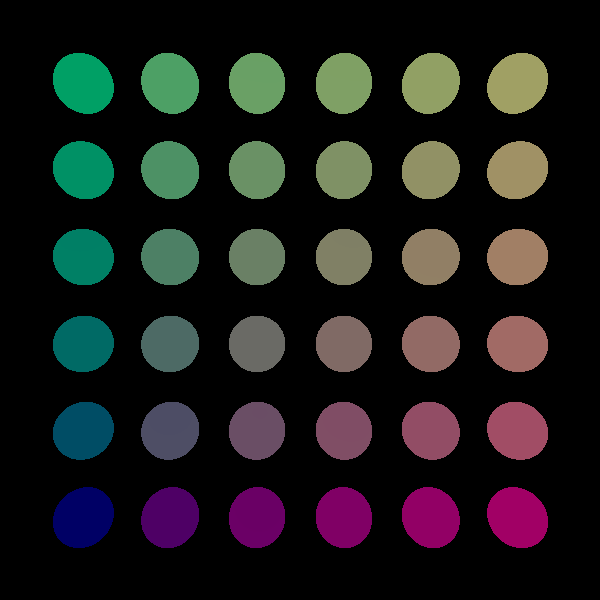
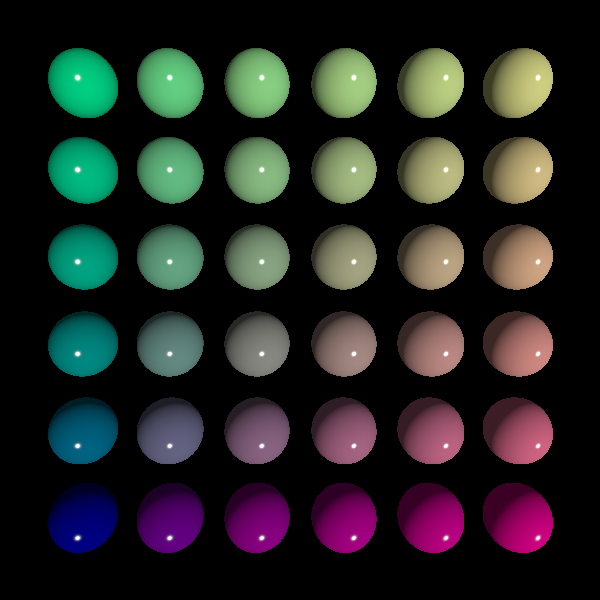
a2

diff --git a/src/tools/SimpleRayTracer.java b/src/tools/SimpleRayTracer.java
@@ -48,39 +48,38 @@ public class SimpleRayTracer {
     }
 
     /**
-     * 光照模型：环境光 + 漫反射 + 镜面反射 (Phong 模型)
+     * **最终修复的光照模型：强制高对比度和高光**
      */
     private Color shade(Hit hit){
         // 1. 定义光照参数
-        // 光源方向 
-        Vec3 lightDir = new Vec3(-0.5, 0.5, -1).normalize();
-        // 观察方向 (从交点指向相机原点(0,0,0)，也就是反向的 Ray.d())
-        Vec3 viewDir = hit.p().multiply(-1).normalize(); 
+        // 光源方向 (使用您最新的左上方光源)
+        Vec3 lightDir = new Vec3(0.5, 0.5, 1).normalize();
         
-        // 2. 环境光 (Ambient)
+        // **修复：使用固定的 View Vector (近似于 (0, 0, 1)) 来消除浮点误差**
+        // 相机沿负Z轴看，物体在负Z轴，视线方向是Z轴正向
+        Vec3 viewDir = new Vec3(0, 0, 1).normalize(); 
+        
+        // 2. 环境光: 0.05f 产生深阴影
         float ambientStrength = 0.05f;
         Color ambient = hit.color().multiply(ambientStrength);
 
-        // 3. 漫反射 (Diffuse)
-        // 漫反射强度 = max(法向量 dot 光源向量, 0)
+        // 3. 漫反射 (产生明暗分割)
         double diffuseFactor = Math.max(0, hit.normal().dot(lightDir));
-        float diffuseStrength = 0.8f; // 调整漫反射强度
+        float diffuseStrength = 0.7f; 
         Color diffuse = hit.color().multiply((float) (diffuseStrength * diffuseFactor));
 
-        // 4. 镜面反射
-        // a. 计算反射光方向 (R = 2 * (N dot L) * N - L)
-        Vec3 incomingLight = lightDir.multiply(-1);
-        Vec3 reflectedLight = reflect(hit.normal(), incomingLight);
+        // 4. 镜面反射 (产生高光)
+        Vec3 incomingLight = lightDir.multiply(-1); 
+        Vec3 reflectedLight = reflect(hit.normal(), incomingLight); 
         
-        double specularExponent = 100.0; // 极高 Ns 产生锐利高光
+        double specularExponent = 200.0; // 极高 Ns 产生锐利高光
         double specularFactor = Math.pow(Math.max(0, reflectedLight.dot(viewDir)), specularExponent); 
         
         Color specularColor = Color.white; 
-        float specularStrength = 1.0f; // 保证高光可见
+        float specularStrength = 2.0f; // 强制高光强度到 2.0f
         Color specular = specularColor.multiply((float) (specularStrength * specularFactor));
 
-        // 5. 最终颜色 = 环境光 + 漫反射 + 镜面反射
+        // 5. 最终颜色
         return ambient.add(diffuse).add(specular);
     }   
-    
 }

diff --git a/src/cgg/A02.java b/src/cgg/A02.java
@@ -26,13 +26,12 @@ public class A02 {
 
     for (int y = 0; y < 600; y++) {
         for (int x = 0; x < 600; x++) {
-            // 计算当前像素颜色（光线追踪核心）
+            
             Color pixelColor = rayTracer.getColor(x, y);
             image.setPixel(x, y, pixelColor);
         }
     }
 
-    // 输出图像
     image.writePng("a02");
 
     }
@@ -48,25 +47,23 @@ public class A02 {
     private static List<Sphere> createSphereGrid(int rows, int cols) {
         List<Sphere> spheres = new ArrayList<>();
 
-        double radius = 1.3; // 球体半径（统一大小，保持网格整齐）
-        double spacing = 4.0; // 球体间距（3D空间中）
-        double zPos = -24; // 所有球体在同一深度（z轴，远离相机）
+        double radius = 1.5; 
+        double spacing = 4.0; 
+        double zPos = -24; 
 
-        // 计算网格中心偏移（让网格居中显示）
+        
         double centerOffsetX = (cols - 1) * spacing / 2.0;
         double centerOffsetY = (rows - 1) * spacing / 2.0;
 
         for (int row = 0; row < rows; row++) {
             for (int col = 0; col < cols; col++) {
-                // 3D坐标计算（复用A01的行列索引，转换为x/y/z）
-                double x = col * spacing - centerOffsetX; // 列→x轴
-                double y = -(row * spacing - centerOffsetY); // 行→y轴（翻转使行顺序正确）
-                Vec3 center = new Vec3(x, y, zPos); // 球体中心3D坐标
+                
+                double x = col * spacing - centerOffsetX; 
+                double y = -(row * spacing - centerOffsetY); 
+                Vec3 center = new Vec3(x, y, zPos); 
 
-                // 复用A01的颜色逻辑（行列决定颜色，与参考图一致）
                 Color color = getSphereColor(row, col, rows, cols);
 
-                // 添加球体到列表（3D球体，替代A01的2D圆形）
                 spheres.add(new Sphere(center, radius, color));
             }
         }
@@ -78,11 +75,9 @@ public class A02 {
      * 生成类似参考图的渐变色彩
      */
     private static Color getSphereColor(int row, int col, int totalRows, int totalCols) {
-        // 红色分量随列增加（与A01一致）
+
         float r = (float) col / totalCols;
-        // 绿色分量随行增加（与A01一致）
         float g = (float) row / totalRows;
-        // 蓝色分量固定（参考图中偏暗，用0.3）
         float b = 0.3f;
         return new Color(r, g, b);
     }

diff --git a/src/tools/Sphere.java b/src/tools/Sphere.java
@@ -16,8 +16,8 @@ public class Sphere {
         Vec3 oc = ray.x().subtract(c);
         double a = ray.d().dot(ray.d());
         double b = 2*oc.dot(ray.d());
-        double c = oc.dot(oc) - r*r;
-        double discriminant = b * b - 4 * a * c;
+        double c_quad = oc.dot(oc) - r*r;
+        double discriminant = b * b - 4 * a * c_quad;
 
         if (discriminant < 0){
             return null;
